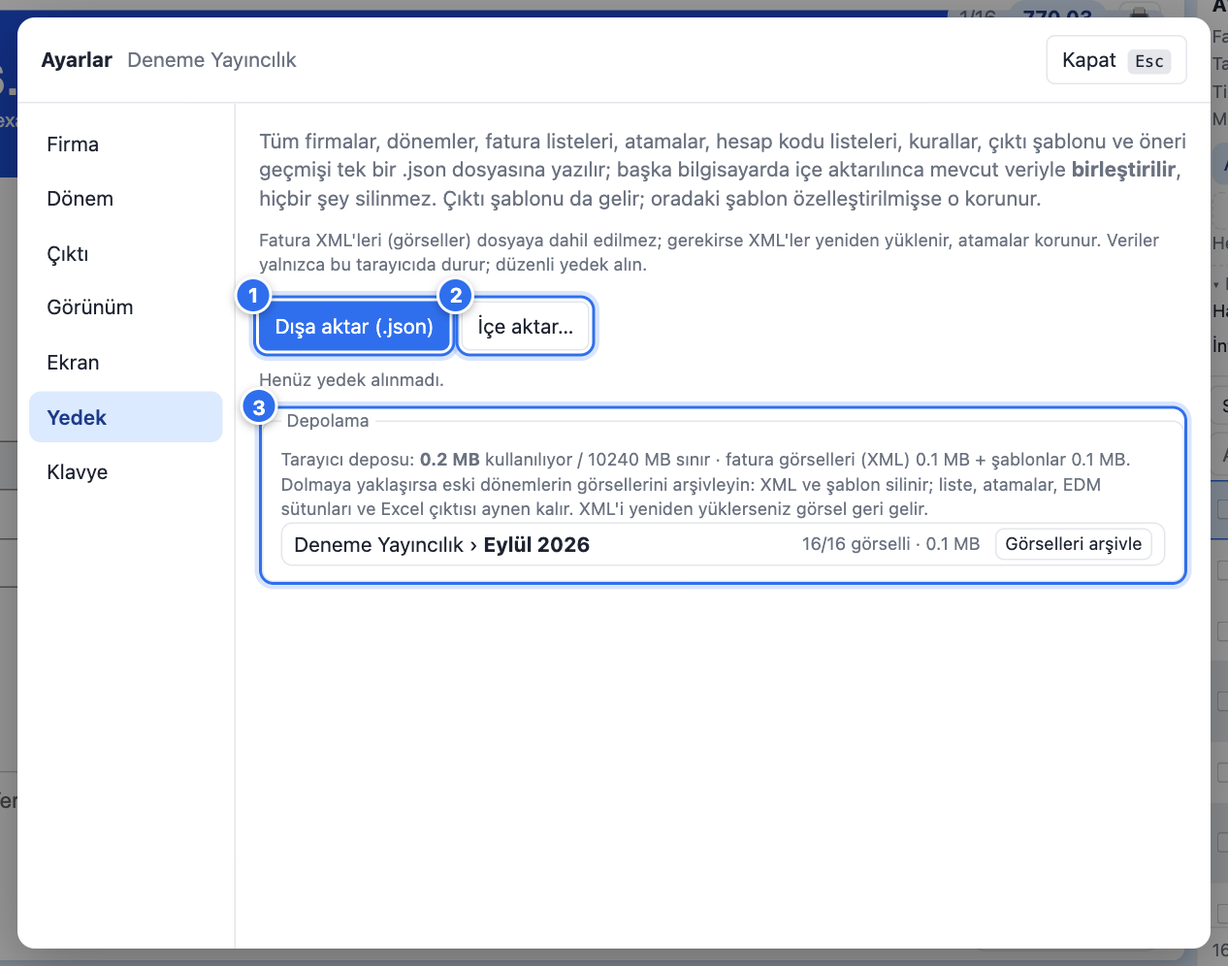
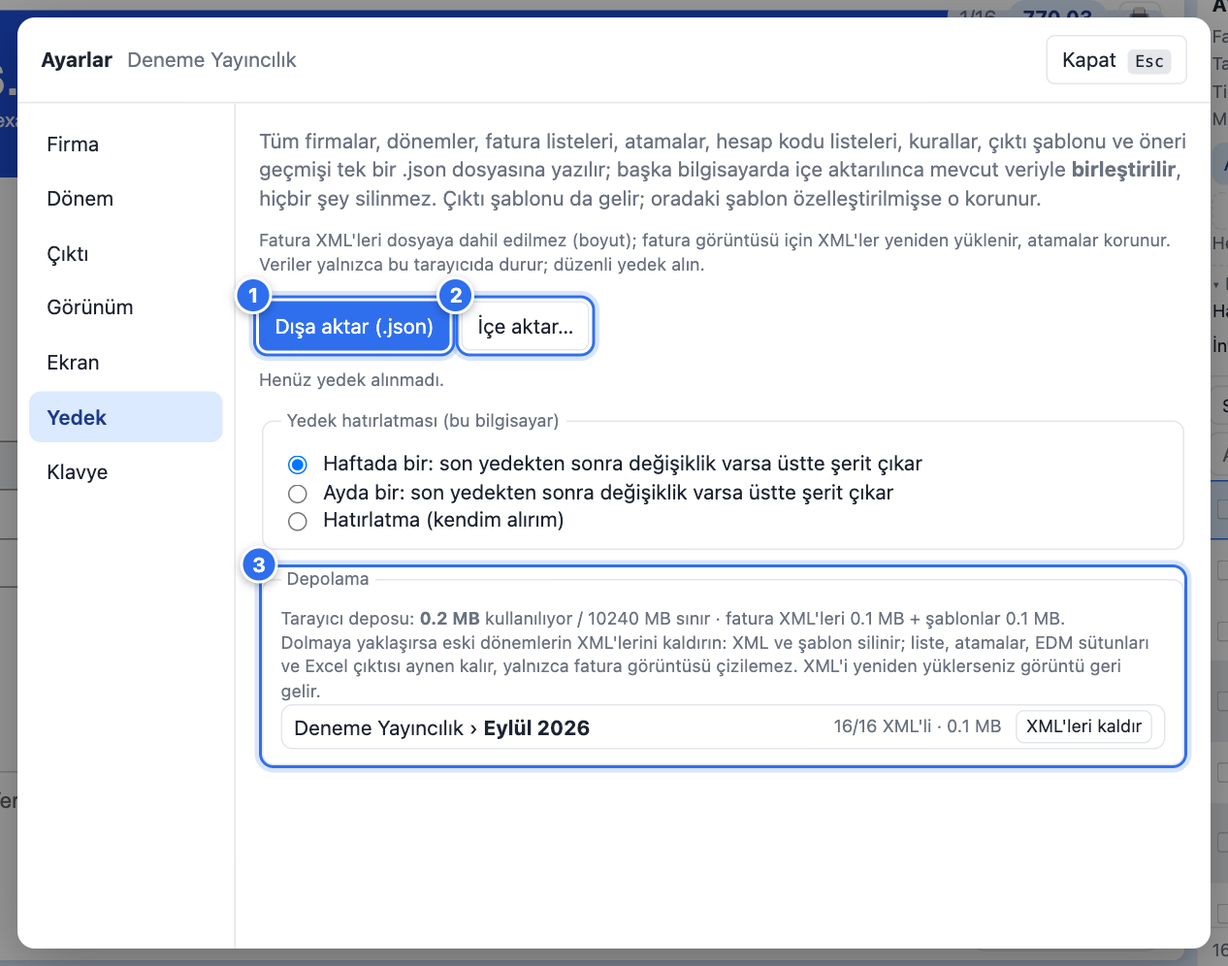
Tercihler (E): "Görsel" tek anlamda, şablonda Kaydet istisnası, akıllı yedek hatırlatması
- "Görsel" yalnızca ana ekranın adı; faturanın resmi "fatura görüntüsü"; XML'e bağlı her şey "XML" ("Görselleri arşivle" → "XML'leri kaldır", "görselli" → "XML'li")
- Şablon penceresi: "değişiklikler Kaydet ile geçerli olur", değişince "● kaydedilmedi"; kaydedilmemişse Esc/dışına tıklama/Vazgeç sorar
- Yedek şeridi yalnızca son yedekten sonra değişiklik varsa; Ayarlar › Yedek: haftada bir / ayda bir / kapalı; erteleme aynı süre
- Taşıma diğer sekmelere de haber verir
- Test prefs-e2e (23 denetim); eski testler yeni sözlere ve şablon sorusuna uyarlandı

Changed region(s): [[0.1848, 0.4046, 0.9858, 0.8092], [0.2156, 0.2179, 0.7085, 0.2801], [0.7701, 0.2179, 0.955, 0.2801]]

diff --git a/src/ui/SettingsModal.tsx b/src/ui/SettingsModal.tsx
@@ -124,7 +124,7 @@ export function SettingsModal() {
                   <span>Dönem adı{b.autoName ? ' (yüklenen faturaların ayına göre kendiliğinden verildi)' : ''}</span>
                   <input value={b.name} onKeyDown={(e) => e.stopPropagation()} onChange={(e) => S.renameBatch((e.currentTarget as HTMLInputElement).value)} />
                 </label>
-                <div class="muted small">{S.invoices.value.length} fatura · {S.assignedCount.value} atanmış · {S.viewCount.value} görselli · oluşturulma {new Date(b.createdAt).toLocaleDateString('tr-TR')}</div>
+                <div class="muted small">{S.invoices.value.length} fatura · {S.assignedCount.value} atanmış · {S.viewCount.value} XML'li · oluşturulma {new Date(b.createdAt).toLocaleDateString('tr-TR')}</div>
                 {S.lastImport.value?.batchId === b.id && (() => {
                   const li = S.lastImport.value!;
                   return <div class="muted small last-import">Son yükleme {new Date(li.at).toLocaleTimeString('tr-TR', { hour: '2-digit', minute: '2-digit' })}: {li.report.added} eklendi{li.report.skipped ? ` · ${li.report.skipped} zaten vardı` : ''}{li.report.failed.length ? ` · ${li.report.failed.length} okunamadı` : ''} <button class="ghost tiny" onClick={() => openOther(() => (S.importReport.value = li.report))}>Ayrıntı</button></div>;
@@ -132,7 +132,7 @@ export function SettingsModal() {
                 <div class="settings-links">
                   <button onClick={() => openOther(() => (S.moveOpen.value = true))}>Başka firmaya ya da döneme taşı…</button>
                   <button class="danger" onClick={async () => {
-                    if (await askConfirm({ title: 'Dönemi sil', message: `"${b.name}" dönemi, ${S.invoices.value.length} faturası ve atamalarıyla silinecek; "Bu satıcıya önce" ipuçları da bu atamaları unutur. Yalnızca yer açmak istiyorsanız Yedek › Depolama'dan görselleri arşivlemek yeter. Bu işlem geri alınamaz.`, okLabel: 'Sil', danger: true })) { S.deleteBatch(b.id); close(); }
+                    if (await askConfirm({ title: 'Dönemi sil', message: `"${b.name}" dönemi, ${S.invoices.value.length} faturası ve atamalarıyla silinecek; "Bu satıcıya önce" ipuçları da bu atamaları unutur. Yalnızca yer açmak istiyorsanız Yedek › Depolama'dan XML'leri kaldırmak yeter. Bu işlem geri alınamaz.`, okLabel: 'Sil', danger: true })) { S.deleteBatch(b.id); close(); }
                   }}>Dönemi sil</button>
                 </div>
               </>
@@ -156,7 +156,7 @@ export function SettingsModal() {
                   {([['hybrid', 'Görsel: fatura görüntüsü + sağda liste'], ['list', 'Liste: yalnızca tablo (sütunlar tablo üstünden seçilir)']] as [Layout, string][]).map(([v, label]) => (
                     <label class="radio"><input type="radio" name="layout" checked={s.layout === v} onChange={() => S.setLayout(v)} /><span>{label}</span></label>
                   ))}
-                  <div class="muted small">Üst çubuktaki ☰ Liste / ▣ Görsel düğmesiyle de değişir. Liste görünümünde satıra çift tıklamak o faturayı görsel görünümde açar.</div>
+                  <div class="muted small">Üst çubuktaki ☰ Liste / ▣ Görsel düğmesiyle de değişir. Liste görünümünde satıra çift tıklamak o faturayı Görsel görünümde açar.</div>
                 </fieldset>
                 <fieldset>
                   <legend>Fatura görüntüsü: yakınlaştırma</legend>
@@ -194,7 +194,7 @@ export function SettingsModal() {
             {tab === 'backup' && (
               <>
                 <div class="muted">Tüm firmalar, dönemler, fatura listeleri, atamalar, hesap kodu listeleri, kurallar, çıktı şablonu ve öneri geçmişi tek bir .json dosyasına yazılır; başka bilgisayarda içe aktarılınca mevcut veriyle <b>birleştirilir</b>, hiçbir şey silinmez. Çıktı şablonu da gelir; oradaki şablon özelleştirilmişse o korunur.</div>
-                <div class="muted small">Fatura XML'leri (görseller) dosyaya dahil edilmez; gerekirse XML'ler yeniden yüklenir, atamalar korunur. Veriler yalnızca bu tarayıcıda durur; düzenli yedek alın.</div>
+                <div class="muted small">Fatura XML'leri dosyaya dahil edilmez (boyut); fatura görüntüsü için XML'ler yeniden yüklenir, atamalar korunur. Veriler yalnızca bu tarayıcıda durur; düzenli yedek alın.</div>
                 <div class="settings-links">
                   <button class="primary" onClick={() => S.exportWorkspace()}>Dışa aktar (.json)</button>
                   <button onClick={() => imp.current?.click()}>İçe aktar…</button>
@@ -204,19 +204,25 @@ export function SettingsModal() {
                     (e.currentTarget as HTMLInputElement).value = '';
                   }} />
                 </div>
-                <div class="muted small">{S.lastExportAt.value ? `Son yedek: ${new Date(S.lastExportAt.value).toLocaleString('tr-TR')}` : 'Henüz yedek alınmadı.'}</div>
+                <div class="muted small">{S.lastExportAt.value ? `Son yedek: ${new Date(S.lastExportAt.value).toLocaleString('tr-TR')}${S.lastChangeAt.value > S.lastExportAt.value ? ' · o günden beri değişiklik var' : ' · o günden beri değişiklik yok'}` : 'Henüz yedek alınmadı.'}</div>
+                <fieldset class="backup-remind">
+                  <legend>Yedek hatırlatması (bu bilgisayar)</legend>
+                  {(['week', 'month', 'off'] as S.BackupRemind[]).map((v) => (
+                    <label class="radio"><input type="radio" name="backupRemind" checked={S.backupRemind.value === v} onChange={() => S.setBackupRemind(v)} /><span>{v === 'off' ? S.BACKUP_REMIND_LABELS[v] : `${S.BACKUP_REMIND_LABELS[v]}: son yedekten sonra değişiklik varsa üstte şerit çıkar`}</span></label>
+                  ))}
+                </fieldset>
                 <fieldset>
                   <legend>Depolama</legend>
                   {store ? (
                     <>
-                      <div class="muted small">Tarayıcı deposu: <b>{mb(store.usage)}</b> kullanılıyor{store.quota ? ` / ${mb(store.quota)} sınır` : ''} · fatura görselleri (XML) {mb(store.batches.reduce((n, x) => n + x.bytes, 0))} + şablonlar {mb(store.xsltBytes)}.</div>
-                      <div class="muted small">Dolmaya yaklaşırsa eski dönemlerin görsellerini arşivleyin: XML ve şablon silinir; liste, atamalar, EDM sütunları ve Excel çıktısı aynen kalır. XML'i yeniden yüklerseniz görsel geri gelir.</div>
+                      <div class="muted small">Tarayıcı deposu: <b>{mb(store.usage)}</b> kullanılıyor{store.quota ? ` / ${mb(store.quota)} sınır` : ''} · fatura XML'leri {mb(store.batches.reduce((n, x) => n + x.bytes, 0))} + şablonlar {mb(store.xsltBytes)}.</div>
+                      <div class="muted small">Dolmaya yaklaşırsa eski dönemlerin XML'lerini kaldırın: XML ve şablon silinir; liste, atamalar, EDM sütunları ve Excel çıktısı aynen kalır, yalnızca fatura görüntüsü çizilemez. XML'i yeniden yüklerseniz görüntü geri gelir.</div>
                       <div class="acc-list store-list">
                         {store.batches.map((x) => (
                           <div class="acc-row store-row">
                             <span class="store-name" title={`${x.firmName} › ${x.name}`}>{x.firmName} › <b>{x.name}</b></span>
-                            <span class="muted small">{x.withXml}/{x.total} görselli · {mb(x.bytes)}</span>
-                            <button class="tiny" disabled={x.withXml === 0} onClick={async () => { if (await askConfirm({ title: 'Görselleri arşivle', message: `"${x.name}" dönemindeki ${x.withXml} faturanın görseli (XML) silinecek; liste, atamalar ve çıktı kalır. XML'ler yeniden yüklenirse görseller geri gelir.`, okLabel: 'Arşivle' })) { const n = await S.archiveBatchVisuals(x.id); S.showToast(`${n} faturanın görseli arşivlendi`); setStore(await S.storageInfo()); } }}>Görselleri arşivle</button>
+                            <span class="muted small">{x.withXml}/{x.total} XML'li · {mb(x.bytes)}</span>
+                            <button class="tiny" disabled={x.withXml === 0} onClick={async () => { if (await askConfirm({ title: 'XML\'leri kaldır', message: `"${x.name}" dönemindeki ${x.withXml} faturanın XML'i silinip yer açılacak; liste, atamalar ve Excel çıktısı kalır, yalnızca fatura görüntüsü çizilemez. XML'ler yeniden yüklenirse görüntüler geri gelir.`, okLabel: 'Kaldır' })) { const n = await S.archiveBatchVisuals(x.id); S.showToast(`${n} faturanın XML'i kaldırıldı`); setStore(await S.storageInfo()); } }}>XML'leri kaldır</button>
                           </div>
                         ))}
                         {store.batches.length === 0 && <div class="chart-empty">Dönem yok.</div>}

diff --git a/src/ui/guide/sections.tsx b/src/ui/guide/sections.tsx
@@ -59,7 +59,7 @@ export const sections: Section[] = [
         <Shot src="04-yukleme-sonucu.png" alt="Yükleme sonucu" w="mid" notes={[
           <>Fatura olmayan dosyalar (irsaliye, yanıt, zarf) ve bozuk dosyalar burada nedenleriyle listelenir. Bu normaldir; faturalar yüklenmiştir.</>,
         ]} />
-        <Tip>EDM listesini (Gelen Faturalar Excel'i) de yüklerseniz çıktı dosyanız EDM'nin verdiğiyle birebir aynı olur; listede olup XML'i olmayan faturalar da görselsiz olarak eklenir.</Tip>
+        <Tip>EDM listesini (Gelen Faturalar Excel'i) de yüklerseniz çıktı dosyanız EDM'nin verdiğiyle birebir aynı olur; listede olup XML'i olmayan faturalar da XML'siz (görüntüsüz) olarak eklenir.</Tip>
         <Warn>Yanlış firmaya yüklediyseniz silmeyin: sağ alttaki <b>taşı</b> düğmesi dönemi ya da seçili faturaları atamalarıyla birlikte doğru firmaya götürür (bkz. Yedek ve taşıma).</Warn>
       </>
     ),
@@ -212,6 +212,7 @@ export const sections: Section[] = [
           <>Canlı önizleme.</>,
           <>Karıştıysa <b>EDM varsayılanına dön</b>.</>,
         ]} />
+        <Warn>Şablon penceresi uygulamada <b>Kaydet</b> isteyen tek penceredir: değişiklik Kaydet'e basınca geçerli olur, o zamana kadar başlıkta "● kaydedilmedi" yazar. Kaydetmeden kapatırsanız sorar.</Warn>
         <Tip>Her firmanın kendi Excel şablonu vardır: firmalar farklı GMS düzenleriyle çalışıyorsa her birini ayrı ayarlayın. Yeni firma, açık firmanın şablonuyla başlar; şablon penceresindeki <b>Başka firmadan al</b> bir firmanın şablonunu kopyalar.</Tip>
         <Tip><b>KDV dökümü</b> sütunları: Matrah %0 · Matrah ve KDV %1, %10, %20 · Oranı Uyuşmayan KDV. Değerler faturanın XML'indeki KDV özetinden gelir; faturada o oran yoksa hücre boş kalır. Temmuz 2023 öncesi oranlar (%8, %18) için sütunları <b>+ Sütun ekle</b>'den ekleyin; açık dönemde sütunu olmayan bir oran varsa pencere söyler ve tek tıkla ekler, önizleme de uyarır. <b>Oranı Uyuşmayan KDV</b>: bazı operatör faturalarında (ör. GSM) KDV satırının oran alanına tutar yazılmış; bu satırların vergisi burada toplanır, matrahları başka satırın tekrarı olduğu için sayılmaz. ÖİV, ÖTV gibi KDV dışı vergiler bu sütunlara girmez; bu yüzden matrah + KDV her faturada Tutar'ı vermeyebilir.</Tip>
         <Warn>İlk kez GMS'e verirken küçük bir dönemle deneyin. GMS bazı sütunları bekliyorsa <T t="edm listesi" />ni de yükleyin; çıktı EDM'nin dosyasıyla birebir olur.</Warn>
@@ -239,11 +240,11 @@ export const sections: Section[] = [
     id: 'yedek', group: 'Çıktı', short: 'Yedek ve taşıma', title: 'Yedek, depolama ve taşıma',
     body: (
       <>
-        <p>Veriler yalnızca bu bilgisayardaki tarayıcıda durur. Haftada bir <T t="yedek" /> alın; sarı şerit hatırlatır.</p>
+        <p>Veriler yalnızca bu bilgisayardaki tarayıcıda durur. Haftada bir <T t="yedek" /> alın; son yedekten sonra değişiklik varsa sarı şerit hatırlatır (sıklığı Ayarlar › Yedek'ten: haftada bir, ayda bir ya da kapalı).</p>
         <Shot src="18-yedek.png" alt="Ayarlar › Yedek" notes={[
           <><b>Dışa aktar</b>: her şey tek .json dosyasında (XML'ler hariç).</>,
           <><b>İçe aktar</b>: başka bilgisayarda mevcut veriyle birleştirir, silmez.</>,
-          <>Depolama: ne kadar yer kullanıldığı; eski dönemlerin görsellerini <T t="arşivle">arşivleyip</T> yer açın.</>,
+          <>Depolama: ne kadar yer kullanıldığı; eski dönemlerin <T t="XML'leri kaldır">XML'lerini kaldırıp</T> yer açın.</>,
         ]} />
         <Shot src="19-tasi.png" alt="Başka firmaya ya da döneme taşı" w="mid" notes={[<><T t="taşı">Taşı</T>: yanlış firmaya yüklenen dönemi ya da seçili faturaları atamalarıyla doğru firmaya götürür. Seçili faturalar aynı firmanın başka dönemine de taşınır: hedef firmada "bu firma"yı seçin. Geri taşımak aynı penceredendir.</>]} />
       </>
@@ -291,7 +292,7 @@ export const keys: [string, string][] = [
   ['Backspace', 'Kodu kaldır (elle girişte boş Enter da kaldırır)'],
   ['Ctrl+Z  Ctrl+Y', 'Geri al / yinele'],
   ['Shift+tık  Ctrl+tık', 'Listede aralık / tekil seçim'],
-  ['Çift tık', 'Liste görünümünde faturayı görselde aç'],
+  ['Çift tık', 'Liste görünümünde faturayı Görsel görünümde aç'],
   ['Esc', 'Pencereyi kapat, seçimi bırak'],
   ['Ctrl+F', 'Ara'],
   ['F5', 'Önizleme'],
@@ -306,12 +307,12 @@ export const troubles: [string, string][] = [
   ['Düğmeler üst çubuğa sığmıyor ya da bazı düğmeler yok', 'Dar pencerede Rehber, tema, geri al gibi düğmeler sağ üstteki ⋯ menüsüne taşınır. Pencereyi büyütün ya da Ayarlar › Ekran\'dan arayüz ölçeğini küçültün.'],
   ['Liste çok az fatura gösteriyor, her şey büyük', 'Ayarlar › Ekran\'da "Sıkışık" yerleşimi ve daha küçük bir ölçek seçin; görüntü ile liste arasındaki çizgiyi sürükleyerek paneli daraltın. Kalemler bölümü başlığından kapatılabilir.'],
   ['Yazılar çok küçük', 'Ayarlar › Ekran\'dan %100 ya da %110 ölçek seçin. Tarayıcının Ctrl + / Ctrl − yakınlaştırması da olur; uygulama ona göre yeniden yerleşir.'],
-  ['Fatura görüntüsü yerine kart görünüyor', 'O faturanın XML\'i yok (EDM listesinden ya da arşivden geldi). XML\'ini yükleyin, görüntü gelir; atama korunur.'],
+  ['Fatura görüntüsü yerine kart görünüyor', 'O faturanın XML\'i yok (EDM listesinden geldi ya da yer açmak için kaldırıldı). XML\'ini yükleyin, görüntü gelir; atama korunur.'],
   ['Q tuşu "yuva boş" diyor', 'Alt çubukta o yuvaya tıklayıp bir kod yazın. Yuvalar kendiliğinden dolmaz.'],
   ['Kod verdim ama listede göremiyorum', 'Süzgeç "Atanmamış" olabilir; "Tümü" yapın. Toplu/kural atananlar gezerken atlanır; Ctrl+ok ile görülür.'],
   ['Yanlış firmaya yükledim', 'Sağ alttaki "taşı" ile dönemi ya da seçili faturaları doğru firmaya taşıyın; atamalar da birlikte taşınır.'],
   ['GMS dosyayı almadı', 'Üst çubuktaki Şablon (ya da Ayarlar › Çıktı) ile sütun ve başlıkları GMS\'in beklediği gibi yapın. Emin olmak için EDM listesini de yükleyin; çıktı EDM dosyasıyla birebir olur.'],
-  ['"Depolama alanı doldu" uyarısı', 'Ayarlar › Yedek › Depolama\'dan eski dönemlerin görsellerini arşivleyin ya da gereksiz dönemi silin.'],
-  ['Başka bilgisayarda devam etmek istiyorum', 'Ayarlar › Yedek › Dışa aktar; diğer bilgisayarda İçe aktar. XML\'leri orada yeniden yüklerseniz görseller de gelir.'],
+  ['"Depolama alanı doldu" uyarısı', 'Ayarlar › Yedek › Depolama\'dan eski dönemlerin XML\'lerini kaldırın ya da gereksiz dönemi silin.'],
+  ['Başka bilgisayarda devam etmek istiyorum', 'Ayarlar › Yedek › Dışa aktar; diğer bilgisayarda İçe aktar. XML\'leri orada yeniden yüklerseniz fatura görüntüleri de gelir.'],
   ['İki sekmede açtım', 'Sorun değil; değişiklikler diğer sekmeye kendiliğinden yansır.'],
 ];

diff --git a/src/ui/state/firms.ts b/src/ui/state/firms.ts
@@ -4,7 +4,7 @@ import { normalizeTemplate, edmTemplate, FIELD_DEFS, type OutputTemplate } from 
 import { SORT_LABELS } from '../../core/sort';
 import { db, DEFAULT_FIRM_ID, loadSettings, newId, type BatchRecord, type FirmRecord } from '../../storage/db';
 import { ensureXslt, forgetHtml } from '../../render/xslt';
-import { ready, needsCode, outputTemplate, accounts, assignments, backupDismissedAt, batchList, batchRec, bulkNos, bumpHistory, historyDelta, current, currentFirmId, currentIndex, filterMode, firm, firms, firstNavigable, goTo, history, invoiceRecs, invoices, lastClicked, lastExportAt, mode, redoStack, ruleNos, rules, searchText, selected, settings, showToast, undoStack } from './core';
+import { ready, needsCode, markChanged, lastChangeAt, backupRemind, outputTemplate, accounts, assignments, backupDismissedAt, batchList, batchRec, bulkNos, bumpHistory, historyDelta, current, currentFirmId, currentIndex, filterMode, firm, firms, firstNavigable, goTo, history, invoiceRecs, invoices, lastClicked, lastExportAt, mode, redoStack, ruleNos, rules, searchText, selected, settings, showToast, undoStack } from './core';
 
 /** Diğer sekmelere "veri değişti" sinyali; alan sekme görünürse yeniler, değilse görünür olunca yeniler */
 export const channel: BroadcastChannel | null = typeof BroadcastChannel !== 'undefined' ? new BroadcastChannel('fatura-hesap-kodu') : null;
@@ -15,6 +15,7 @@ export let suppressBroadcast = false;
 
 export function notifyOtherTabs() {
   if (suppressBroadcast) return;
+  markChanged();
   try { channel?.postMessage({ type: 'changed', at: Date.now() }); } catch { /* yok say */ }
 }
 
@@ -23,6 +24,7 @@ export async function refreshFromDb() {
   suppressBroadcast = true;
   try {
     settings.value = { ...(await loadSettings(DEFAULT_SETTINGS)), outputTemplate: settings.value.outputTemplate };
+    try { lastChangeAt.value = Math.max(lastChangeAt.value, Number(localStorage.getItem('lastChangeAt') ?? 0) || 0); } catch { /* yok say */ }
     firms.value = await db.firms.orderBy('name').toArray();
     if (!firms.value.some((f) => f.id === currentFirmId.value)) { await switchFirm(firms.value[0]?.id ?? DEFAULT_FIRM_ID); return; }
     await loadFirmData();
@@ -56,7 +58,15 @@ export async function init() {
   if (!(settings.value.sortMode in SORT_LABELS)) settings.value = { ...settings.value, sortMode: 'date-supplier' };
   settings.value = { ...settings.value, listColumns: normalizeListColumns(settings.value.listColumns, (id) => id in FIELD_DEFS) };
   lastExportAt.value = ((await db.settings.get('lastExportAt'))?.value as number | undefined) ?? null;
-  try { backupDismissedAt.value = Number(localStorage.getItem('backupDismissedAt') ?? 0) || 0; } catch { /* yok say */ }
+  try {
+    backupDismissedAt.value = Number(localStorage.getItem('backupDismissedAt') ?? 0) || 0;
+    const r = localStorage.getItem('backupRemind');
+    if (r === 'week' || r === 'month' || r === 'off') backupRemind.value = r;
+    lastChangeAt.value = Number(localStorage.getItem('lastChangeAt') ?? 0) || 0;
+  } catch { /* yok say */ }
+  // Bu sürümden önceki kayıtlarda değişiklik zamanı yok: dönemlerin en son güncellenmesi alınır
+  const lastBatch = (await db.batches.toArray()).reduce((m, b) => Math.max(m, b.updatedAt ?? 0), 0);
+  if (lastBatch > lastChangeAt.value) lastChangeAt.value = lastBatch;
   await ensureFirms();
   // Şablon artık firmaya özel: şablonu olmayan firmalar (eski kayıtlar) o ana kadarki genel şablonu alır
   const noTpl = firms.value.filter((f) => !f.outputTemplate);
@@ -180,7 +190,7 @@ function goFirstUnassigned() {
 }
 
 /**
- * Açık dönemi veritabanından yeniden okur (XML ekleme, fatura çıkarma, arşivleme, sekme eşitleme sonrası).
+ * Açık dönemi veritabanından yeniden okur (XML ekleme, fatura silme, XML kaldırma, sekme eşitleme sonrası).
  * openBatch'ten farkı: geri alma yığını, süzgeç, arama ve seçim korunur; açık fatura yerinde kalır.
  */
 export async function reloadBatch() {
@@ -269,7 +279,7 @@ export async function storageInfo(): Promise<StorageInfo> {
   };
 }
 
-/** Dönemin görsellerini kaldırır: XML ve şablon bağı silinir; liste, atamalar, EDM sütunları ve çıktı aynen kalır. XML yeniden yüklenirse görsel geri gelir. */
+/** Dönemin XML'lerini kaldırır (yer açar): XML ve şablon bağı silinir; liste, atamalar, EDM sütunları ve çıktı aynen kalır. XML yeniden yüklenirse fatura görüntüsü geri gelir. */
 export async function archiveBatchVisuals(batchId: string): Promise<number> {
   let n = 0;
   await db.invoices.where('batchId').equals(batchId).modify((r) => { if (r.xml) { r.xml = null; r.xsltId = null; n++; } });

diff --git a/src/ui/state/core.ts b/src/ui/state/core.ts
@@ -84,6 +84,8 @@ export const printOpen = signal(false);
 
 /** Çıktı Excel şablonu penceresi */
 export const templateOpen = signal(false);
+/** Kendi kapanma kuralı olan pencereler (örn. şablon: kaydedilmemişse sorar); genel Esc buradan kapatır */
+export const modalClosers: { template?: () => void } = {};
 
 /** Yükleme sonucu penceresi (okunamayan dosya varsa kendiliğinden açılır) */
 export const importReport = signal<ImportReport | null>(null);
@@ -149,15 +151,40 @@ export const redoStack = signal<UndoEntry[]>([]);
 export const lastExportAt = signal<number | null>(null);
 
 export const backupDismissedAt = signal<number>(0);
+/** Bu tarayıcıdaki son veri değişikliği (ms; sekmeler arasında localStorage ile ortak): son yedekten sonra değişiklik yoksa hatırlatılmaz */
+export const lastChangeAt = signal<number>(0);
 
 export const DAY = 86_400_000;
 
-/** Atama varsa ve 7 günden eski (ya da hiç) yedek yoksa hatırlat; "bugün değil" ile 1 gün ertelenir */
+/** Yedek hatırlatma sıklığı: bilgisayara özgü (localStorage), yedeğe girmez */
+export type BackupRemind = 'week' | 'month' | 'off';
+export const BACKUP_REMIND_DAYS: Record<BackupRemind, number> = { week: 7, month: 30, off: 0 };
+export const BACKUP_REMIND_LABELS: Record<BackupRemind, string> = { week: 'Haftada bir', month: 'Ayda bir', off: 'Hatırlatma (kendim alırım)' };
+export const backupRemind = signal<BackupRemind>('week');
+
+/**
+ * Yedek hatırlatması: veri varsa, son yedekten sonra değişiklik olduysa ve seçilen süre (hafta/ay) geçtiyse.
+ * "Sonra hatırlat" aynı süre kadar erteler; "kapalı" hiç göstermez.
+ */
 export const backupDue = computed(() => {
   if (assignments.value.size === 0 && batchList.value.length === 0) return false;
-  if (Date.now() - backupDismissedAt.value < DAY) return false;
-  return lastExportAt.value === null || Date.now() - lastExportAt.value > 7 * DAY;
+  const days = BACKUP_REMIND_DAYS[backupRemind.value];
+  if (!days) return false;
+  if (Date.now() - backupDismissedAt.value < days * DAY) return false;
+  if (lastExportAt.value === null) return true;
+  if (lastChangeAt.value <= lastExportAt.value) return false;
+  return Date.now() - lastExportAt.value > days * DAY;
 });
+
+export function markChanged() {
+  lastChangeAt.value = Date.now();
+  try { localStorage.setItem('lastChangeAt', String(lastChangeAt.value)); } catch { /* yok say */ }
+}
+
+export function setBackupRemind(v: BackupRemind) {
+  backupRemind.value = v;
+  try { localStorage.setItem('backupRemind', v); } catch { /* yok say */ }
+}
 
 export function dismissBackup() {
   backupDismissedAt.value = Date.now();
@@ -300,10 +327,10 @@ export const ISSUE_LABEL: Record<IssueKind, string> = {
   'not-in-chart': 'Kod hesap kodu listesinde yok',
   type: 'Tevkifat / İade faturası, kontrol edin',
   'vat-gap': 'KDV oranının Excel şablonunda sütunu yok',
-  'no-view': 'XML yok (EDM listesinden geldi ya da görseli arşivlendi); görsel çizilemez',
+  'no-view': 'XML yok (EDM listesinden geldi ya da yer açmak için kaldırıldı); fatura görüntüsü çizilemez',
 };
 
-/** Toolbar ve listede gösterilecek uyarılar: atanmamış kod ve görsel eksikliği hariç. */
+/** Toolbar ve listede gösterilecek uyarılar: atanmamış kod ve XML eksikliği hariç. */
 export function attentionIssues(inv: Invoice): IssueKind[] {
   return issuesFor(inv).filter((k) => k !== 'no-code' && k !== 'no-view');
 }
@@ -356,8 +383,8 @@ export async function getInvoiceView(no: string): Promise<InvoiceView | null> {
   } else if (rec.xml) {
     html = '<!--fallback-->' + fallbackHtml(inv, rec.xml, 'Bu faturada görünüm şablonu (XSLT) yok; XML içeriği sade biçimde gösteriliyor.');
   } else {
-    // XML'siz (EDM listesinden ya da arşivden): ekranda kart gösterilir, yazdırmada sade özet
-    return { html: '<!--fallback-->' + fallbackHtml(inv, null, 'Bu faturanın XML\'i yok (EDM listesinden geldi ya da görseli arşivlendi); yalnızca liste bilgileri.'), official: false };
+    // XML'siz (EDM listesinden ya da XML'i kaldırılmış): ekranda kart gösterilir, yazdırmada sade özet
+    return { html: '<!--fallback-->' + fallbackHtml(inv, null, 'Bu faturanın XML\'i yok (EDM listesinden geldi ya da yer açmak için kaldırıldı); yalnızca liste bilgileri.'), official: false };
   }
   rememberHtml(key, html);
   return { html, official };

diff --git a/src/ui/TemplateModal.tsx b/src/ui/TemplateModal.tsx
@@ -1,5 +1,6 @@
 import { useState } from 'preact/hooks';
 import * as S from './state';
+import { askConfirm } from './dialog';
 import { fmtCell } from '../core/num';
 import { FIELD_DEFS, KDV_FIELD_IDS, vatFieldsFor, vatUncovered, ROW_ORDER_LABELS, DEFAULT_OUTPUT_TEMPLATE, isEdmDefault, buildTemplateRows, type OutputTemplate, type OutputFieldId, type RowOrder } from '../core/excel/template';
 
@@ -10,8 +11,14 @@ export function TemplateModal() {
   const [t, setT] = useState<OutputTemplate>(() => JSON.parse(JSON.stringify(S.outputTemplate.value)));
   const [addId, setAddId] = useState<OutputFieldId>('uuid');
   const [dragIdx, setDragIdx] = useState<number | null>(null);
-  const close = () => (S.templateOpen.value = false);
-  const save = async () => { await S.setOutputTemplate(t); close(); S.showToast(`Çıktı şablonu kaydedildi (${S.firm.value.name})`); };
+  // Uygulamada anında kaydetmeyen tek pencere: değişiklik Kaydet'e basınca geçerli olur, kaydedilmemişse kapatırken sorulur
+  const dirty = JSON.stringify(t) !== JSON.stringify(S.outputTemplate.value);
+  const close = async () => {
+    if (dirty && !(await askConfirm({ title: 'Şablon kaydedilmedi', message: 'Bu pencerede yaptığınız değişiklikler Kaydet\'e basılmadan geçerli olmaz. Kaydetmeden kapatılırsa kaybolur.', okLabel: 'Kaydetmeden kapat', danger: true }))) return;
+    S.templateOpen.value = false;
+  };
+  S.modalClosers.template = close;
+  const save = async () => { await S.setOutputTemplate(t); S.templateOpen.value = false; S.showToast(`Çıktı şablonu kaydedildi (${S.firm.value.name})`); };
   const others = S.firms.value.filter((f) => f.id !== S.firm.value.id && f.outputTemplate);
   const copyFrom = (id: string) => { const f = others.find((x) => x.id === id); if (f?.outputTemplate) setT(JSON.parse(JSON.stringify(f.outputTemplate))); };
   const used = new Set(t.columns.map((c) => c.id));
@@ -37,6 +44,9 @@ export function TemplateModal() {
           <b>Çıktı Excel şablonu</b>
           <span class="tpl-firm" title="Her firmanın kendi şablonu var; burada yaptığınız değişiklik yalnızca bu firmanın Excel'ini etkiler">{S.firm.value.name}</span>
           <span class="muted">{t.columns.length} sütun · {isEdmDefault(t) ? 'EDM düzeni' : 'özelleştirilmiş'}</span>
+          {dirty
+            ? <span class="tpl-dirty" title="Değişiklikler Kaydet'e basınca geçerli olur">● kaydedilmedi</span>
+            : <span class="muted small" title="Uygulamanın diğer pencereleri anında kaydeder; bu pencere Kaydet ile çalışır">değişiklikler Kaydet ile geçerli olur</span>}
           <div class="spacer" />
           {others.length > 0 && (
             <select class="tpl-copy" value="" title="Başka bir firmanın şablonunu buraya kopyala (Kaydet'e basana kadar bir şey değişmez)" onChange={(e) => { copyFrom((e.currentTarget as HTMLSelectElement).value); (e.currentTarget as HTMLSelectElement).value = ''; }} onKeyDown={(e) => e.stopPropagation()}>

diff --git a/src/ui/App.tsx b/src/ui/App.tsx
@@ -126,7 +126,7 @@ export function App() {
       }
       if (S.quickRule.value) { if (e.key === 'Escape') S.quickRule.value = null; return; }
       if (S.moveOpen.value || S.templateOpen.value || S.accountsOpen.value) {
-        if (e.key === 'Escape') { S.moveOpen.value = false; S.templateOpen.value = false; S.accountsOpen.value = false; }
+        if (e.key === 'Escape') { S.moveOpen.value = false; S.accountsOpen.value = false; if (S.templateOpen.value) (S.modalClosers.template ?? (() => (S.templateOpen.value = false)))(); }
         return;
       }
       if (S.previewOpen.value || S.settingsOpen.value || S.guideOpen.value || S.rulesOpen.value) {
@@ -261,11 +261,11 @@ export function App() {
       {S.backupDue.value && S.batchRec.value && (
         <div class="backup-hint">
           <span>
-            {S.lastExportAt.value === null ? 'Henüz hiç yedek alınmadı.' : `Son yedek ${Math.floor((Date.now() - S.lastExportAt.value) / 86_400_000)} gün önce.`}{' '}
+            {S.lastExportAt.value === null ? 'Henüz hiç yedek alınmadı.' : `Son yedek ${Math.floor((Date.now() - S.lastExportAt.value) / 86_400_000)} gün önce; o günden beri değişiklik var.`}{' '}
             Veriler yalnızca bu tarayıcıda; tek dosyayla yedekleyin.
           </span>
           <button class="tiny primary" onClick={() => S.exportWorkspace()}>Şimdi dışa aktar</button>
-          <button class="tiny ghost" onClick={() => S.dismissBackup()}>Bugün değil</button>
+          <button class="tiny ghost" title="Sıklık: Ayarlar › Yedek" onClick={() => S.dismissBackup()}>{S.backupRemind.value === 'month' ? '1 ay sonra hatırlat' : '1 hafta sonra hatırlat'}</button>
         </div>
       )}
       {!S.ready.value ? (

diff --git a/src/ui/state/move.ts b/src/ui/state/move.ts
@@ -2,7 +2,7 @@ import { dominantMonth } from '../../core/xml/parseUbl';
 import { db, newId } from '../../storage/db';
 import { forgetHtml } from '../../render/xslt';
 import { batchRec, firms, invoiceRecs, selected, showToast } from './core';
-import { openBatch, refreshBatchList, reloadBatch, switchFirm } from './firms';
+import { notifyOtherTabs, openBatch, refreshBatchList, reloadBatch, switchFirm } from './firms';
 
 /** Satıcı geçmişi sayaçlarını bir firmadan diğerine aktarır (öneriler doğru firmada kalsın) */
 export async function transferHistory(fromFirm: string, toFirm: string, pairs: { vkn: string; code: string }[]) {
@@ -29,6 +29,7 @@ export async function moveBatchToFirm(targetFirmId: string) {
   const name = firms.value.find((f) => f.id === targetFirmId)?.name ?? '';
   await switchFirm(targetFirmId);
   await openBatch(b.id);
+  notifyOtherTabs();
   showToast(`"${b.name}" dönemi ${name} firmasına taşındı. Geri almak için aynı pencereyi kullanın.`, 5000);
 }
 
@@ -77,5 +78,6 @@ export async function moveInvoicesToFirm(nos: string[], targetFirmId: string, ta
   const name = firms.value.find((f) => f.id === targetFirmId)?.name ?? '';
   await refreshBatchList();
   await reloadBatch();
+  notifyOtherTabs();
   showToast(`${moved.length} fatura ${b.firmId === targetFirmId ? '' : `${name} › `}"${target.name}" dönemine taşındı${skipped ? ` · ${skipped} fatura orada zaten vardı, burada bırakıldı` : ''}.`, 5000);
 }

diff --git a/src/ui/guide/terms.ts b/src/ui/guide/terms.ts
@@ -22,7 +22,7 @@ export const TERMS: Record<string, string> = {
   'şablon': 'Çıktı şablonu: Excel dosyasında hangi sütunların, hangi sırayla ve hangi başlıkla yazılacağı. Varsayılan EDM düzeni + C sütununda Hesap Kodu.',
   'önizleme': 'Önizleme (F5): Excel\'e yazılacak tablonun birebir ön görünümü. Kod almamış ve dikkat gerektiren satırlar sarı.',
   'yedek': 'Yedek: tüm verinizin tek .json dosyası. Veriler yalnızca bu tarayıcıda durur; başka bilgisayara geçmek ya da kaybetmemek için düzenli alın.',
-  'arşivle': 'Görselleri arşivle: eski bir dönemin XML\'lerini silip yer açar. Liste, atamalar ve Excel çıktısı kalır; XML\'i yeniden yüklerseniz görsel geri gelir.',
+  'XML\'leri kaldır': 'XML\'leri kaldır: eski bir dönemin XML\'lerini silip yer açar. Liste, atamalar ve Excel çıktısı kalır, yalnızca fatura görüntüsü çizilemez; XML\'i yeniden yüklerseniz görüntü geri gelir.',
   'vkn': 'VKN / TCKN: satıcının vergi numarası (10 hane) ya da şahıssa TC kimlik numarası (11 hane). Satıcıyı en kesin tanıtan bilgi.',
   'ettn': 'ETTN: faturanın evrensel tekil numarası. Fatura numarasından farklıdır; nadiren gerekir.',
   'zip': 'ZIP: EDM\'den toplu indirdiğiniz sıkıştırılmış dosya. Açmadan doğrudan yükleyebilirsiniz.',

diff --git a/src/ui/PrintModal.tsx b/src/ui/PrintModal.tsx
@@ -78,7 +78,7 @@ export function PrintModal() {
       <div class="modal print-modal" onClick={(e) => e.stopPropagation()} onKeyDownCapture={(e) => { if (e.key === 'Escape') { const t = e.target as HTMLInputElement; e.stopPropagation(); e.preventDefault(); if (t?.tagName === 'INPUT' && t.type !== 'checkbox' && t.type !== 'radio' && t.value) { setPsearch(''); setManual(null); return; } S.closePrint(); } }}>
         <div class="modal-head">
           <b>Yazdırma planı</b>
-          <span class="muted">{toPrint.length}{toPrint.length !== items.length ? ` / ${items.length}` : ''} fatura{noView ? ` · ${noView} görselsiz (özet basılır)` : ''}</span>
+          <span class="muted">{toPrint.length}{toPrint.length !== items.length ? ` / ${items.length}` : ''} fatura{noView ? ` · ${noView} XML'siz (özet basılır)` : ''}</span>
           <div class="spacer" />
           <button class="primary" disabled={toPrint.length === 0} onClick={() => S.startPrint(toPrint, { pageBreak, strip, summary, chunk: useChunks ? chunkSize : 0 })}>Yazdır ({toPrint.length}{useChunks ? ` · ${Math.ceil(toPrint.length / chunkSize)} parça` : ''}) <kbd>Enter</kbd></button>
           <button class="ghost" onClick={() => S.closePrint()}>Kapat <kbd>Esc</kbd></button>

diff --git a/src/ui/InvoiceCard.tsx b/src/ui/InvoiceCard.tsx
@@ -6,7 +6,7 @@ export function fmtAmount(n: number | null, cur: string) {
   return `${fmtMoney(n)} ${cur}`.trim();
 }
 
-/** XML'i olmayan (EDM listesinden gelen ya da görseli arşivlenen) faturalar için büyük puntolu kart. */
+/** XML'i olmayan (EDM listesinden gelen ya da XML'i kaldırılan) faturalar için büyük puntolu kart. */
 export function InvoiceCard({ inv }: { inv: Invoice }) {
   return (
     <div class="card">
@@ -19,7 +19,7 @@ export function InvoiceCard({ inv }: { inv: Invoice }) {
         {inv.profile && <span class="chip">{inv.profile}</span>}
       </div>
       <div class="card-amount">{fmtAmount(inv.amount, inv.currency)}</div>
-      <div class="card-hint">Bu faturanın XML'i yok (EDM listesinden geldi ya da görseli arşivlendi); yalnızca liste bilgileri gösteriliyor. XML'ini yüklerseniz görsel çizilir.</div>
+      <div class="card-hint">Bu faturanın XML'i yok (EDM listesinden geldi ya da yer açmak için kaldırıldı); yalnızca liste bilgileri gösteriliyor. XML'ini yüklerseniz fatura görüntüsü çizilir.</div>
     </div>
   );
 }

diff --git a/src/ui/styles.css b/src/ui/styles.css
@@ -418,6 +418,8 @@ tr.iss-chart td.code-col { color: var(--warn); text-decoration: underline wavy v
 .tpl-letter { width: 26px; text-align: center; font-family: ui-monospace, Menlo, monospace; color: var(--muted); font-size: 12px; }
 .tpl-header { flex: 1; min-width: 0; padding: 4px 8px; font-weight: 600; }
 .tpl-field { width: 220px; overflow: hidden; text-overflow: ellipsis; white-space: nowrap; }
+.tpl-dirty { color: #b45309; font-weight: 600; font-size: 13px; }
+:root[data-theme="dark"] .tpl-dirty { color: #f0b061; }
 .tpl-firm { font-weight: 600; padding: 1px 8px; border-radius: 999px; background: color-mix(in srgb, var(--accent) 14%, transparent); }
 .tpl-add { display: flex; gap: 8px; margin-top: 8px; } .tpl-add select { flex: 1; min-width: 0; }
 .tpl-side { border-left: 1px solid var(--line); padding: 12px 14px; display: flex; flex-direction: column; gap: 10px; min-height: 0; overflow: auto; }

diff --git a/src/ui/ImportReportModal.tsx b/src/ui/ImportReportModal.tsx
@@ -30,7 +30,7 @@ export function ImportReportModal() {
           {r.skippedFiles.length > 0 && (
             <fieldset>
               <legend>Zaten dönemde olanlar ({r.skippedFiles.length})</legend>
-              <div class="muted small">Aynı fatura numarası bu dönemde zaten vardı; atama ve görsel korunur, dosya yeniden işlenmez.</div>
+              <div class="muted small">Aynı fatura numarası bu dönemde zaten vardı; atama ve XML korunur, dosya yeniden işlenmez.</div>
               <div class="acc-list report-list">
                 {r.skippedFiles.slice(0, 200).map((f) => (
                   <div class="acc-row report-row"><span class="report-file" title={f.file}>{f.file}</span><span class="report-reason mono">{f.no}</span></div>
